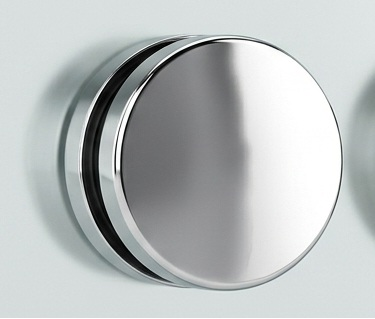
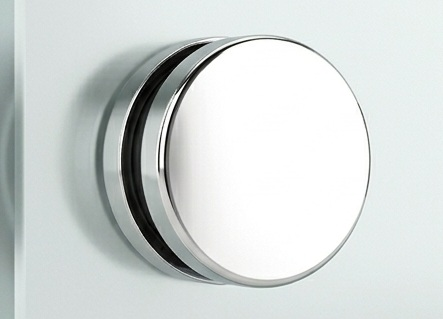
added viking

diff --git a/src/components/wizard/steps/Steps.tsx b/src/components/wizard/steps/Steps.tsx
@@ -313,6 +313,16 @@ const FIXING_OPTIONS: FixingOption[] = [
     image: IMAGES.hiddenChannel,
     imageAlt: 'Hidden channel base glass balustrade with no visible posts — Royal Glass Auckland',
   },
+
+  {
+    value: 'viking',
+    label: 'Viking System',
+    description: 'Top-clamping post system — no floor drilling required',
+    detail: 'The Viking system uses top-mounted clamps so glass is secured without drilling into the floor. Great for tiled or concrete surfaces where core drilling is not an option.',
+    image: IMAGES.viking,
+    imageAlt: 'Viking top-clamp glass balustrade system — Royal Glass Auckland',
+  },
+
   {
     value: 'not_sure',
     label: 'Not Sure',

diff --git a/wordpress-plugin/rg-calculator/assets/rg-calculator.js b/wordpress-plugin/rg-calculator/assets/rg-calculator.js
@@ -11587,6 +11587,7 @@ const v0 = y0(),
     spigots: Ml("fix-spigots.jpg"),
     standoff: Ml("fix-standoff.jpg"),
     hiddenChannel: Ml("fix-channel.jpg"),
+    viking: Ml("fix-viking.jpg"),
     chrome: Ml("finish-chrome.jpg"),
     matteBlack: Ml("finish-black.jpg"),
     brushedChrome: Ml("finish-brushed.jpg"),
@@ -12109,6 +12110,12 @@ const T0 = [
       description: "Glass appears to float — recessed channel in the floor",
       image: zl.hiddenChannel,
     },
+    {
+        value: "viking",
+        title: "Viking",
+        description: "Great for tiled or concrete surfaces where core drilling is not an option",
+        image: zl.viking,
+      },
     {
       value: "not_sure",
       title: "Not Sure",

diff --git a/src/lib/calculator/config.ts b/src/lib/calculator/config.ts
@@ -85,18 +85,18 @@ export const IMAGES = {
   colourLowIron: img('clarity-lowiron.jpg'),
   colourTinted:  img('clarity-tinted.jpg'),
   colourCustom:  img('finish-custom.jpg'),
-  colourFrosted: img('finish-custom.jpg'),
+  colourFrosted: img('clarity-frosted.jpg'),
 
   // Fixing method
   spigots:       img('fix-spigots.jpg'),
   standoff:      img('fix-standoff.jpg'),
   hiddenChannel: img('fix-channel.jpg'),
+  viking:        img('fix-viking.jpg'), 
 
   // Hardware finish
   chrome:        img('finish-chrome.jpg'),
   matteBlack:    img('finish-black.jpg'),
   brushedChrome: img('finish-brushed.jpg'),
-  brass:         img('finish-brass.jpg'),
   powderCoated:  img('finish-brass.jpg'),
   finishCustom:  img('finish-custom.jpg'),
   notSure:       img('not-sure.jpg'),

diff --git a/src/lib/calculator/types.ts b/src/lib/calculator/types.ts
@@ -6,7 +6,7 @@ export type Scenario =
 
 export type GlassType = 'toughened_12mm' | 'laminated';
 export type GlassColour = 'clear' | 'low_iron' | 'tinted' | 'frosted';
-export type FixingMethod = 'spigots' | 'standoff_posts' | 'hidden_channel' | 'not_sure';
+export type FixingMethod = 'spigots' | 'standoff_posts' | 'hidden_channel' | 'viking' | 'not_sure';
 export type SubstrateType = 'timber' | 'concrete' | 'tile' | 'steel' | 'not_sure';
 
 export type HardwareFinish =